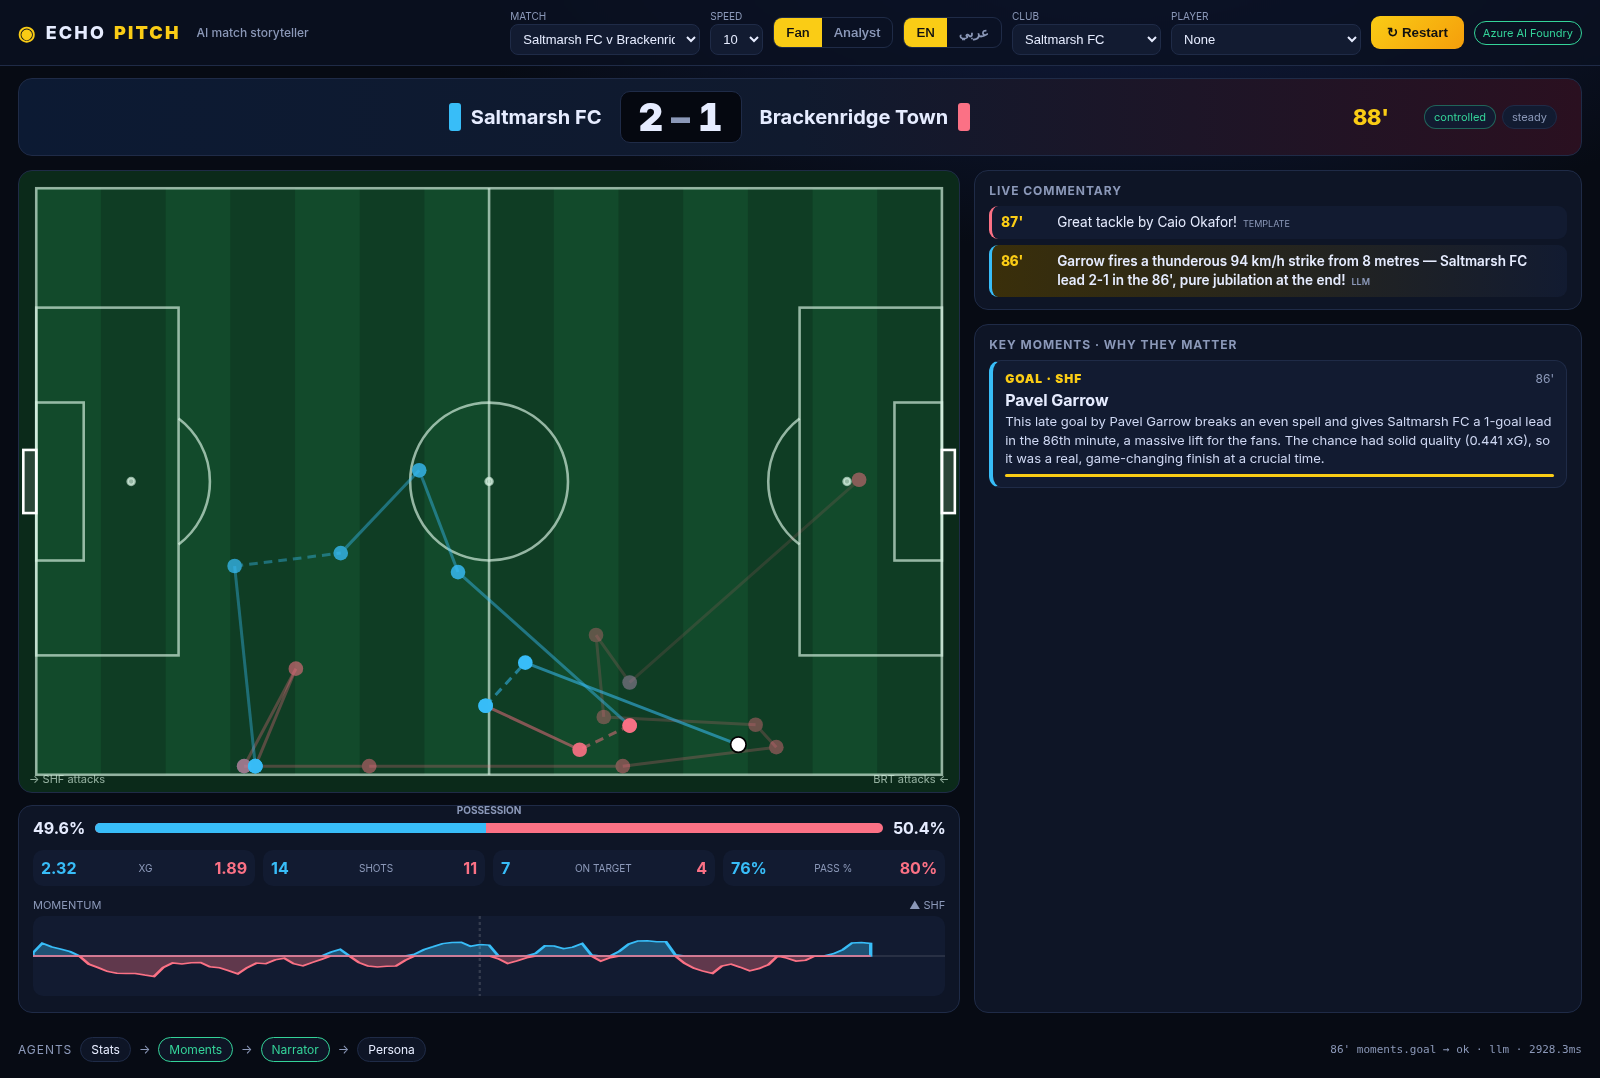
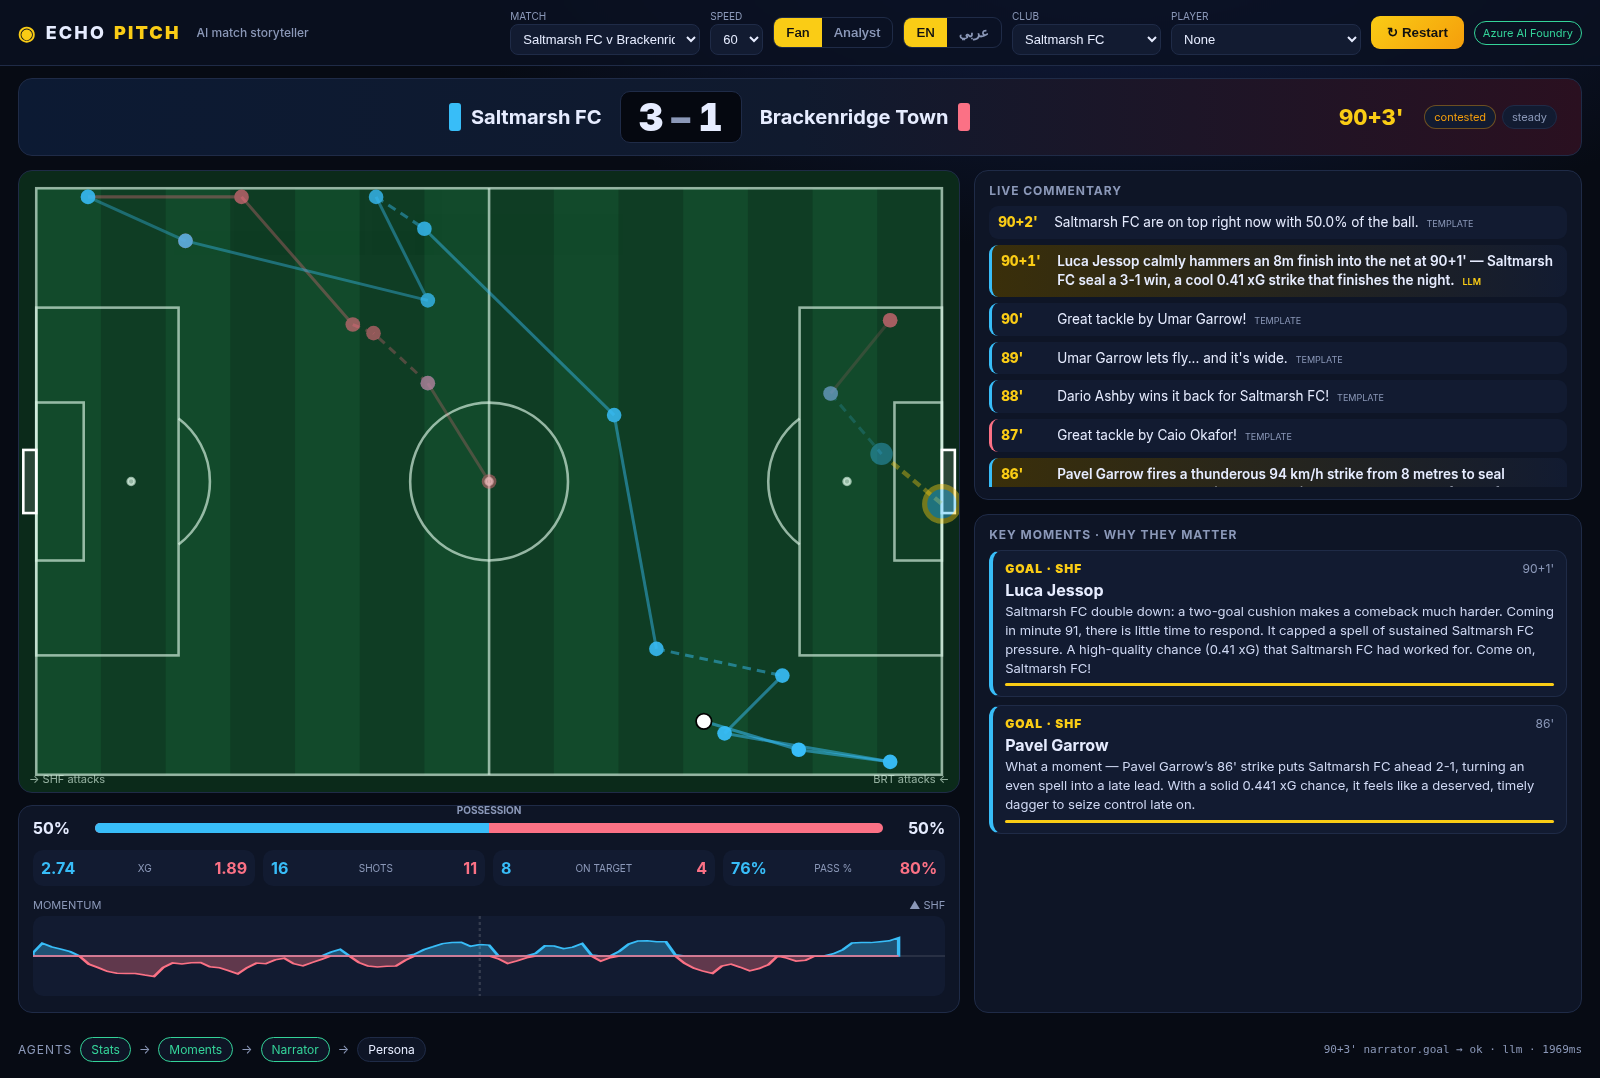
README: replay GIF, category framing, judging map, doc/code audit fixes; refresh Foundry screenshots; draft video script

diff --git a/docs/video_script.md b/docs/video_script.md
@@ -1,31 +1,19 @@
-# Echo Pitch: demo video script (target 1:50, hard limit < 2:00)
+# Demo video script (target 1:50, hard limit < 2:00)
 
-**Format:** 1920×1080 screen recording with English voice-over. Add burned-in captions; judges may watch muted.
-No copyrighted music (use silence or a royalty-free track) and no real club or league logos.
+> **Draft for Ismael to rewrite in his own words.** Judges spot generic AI-written scripts; keep the structure,
+> change the sentences. Record the real app running (no slides). Clear audio matters more than fancy editing.
+> Upload to YouTube as **Public** at least a day before the deadline.
 
-**Setup before recording**
-- `LLM_MODE=foundry` with a working Foundry deployment, or `offline` with the badge visible. Be honest on screen about which mode is showing.
-- Browser at 1600×1000, zoom 100%, extra tabs closed.
-- Pre-open these deep links:
-  - A: `/?match=EP-2026-002&speed=30&start=44&club=home&autoplay=1`
-  - B: `/?match=EP-2026-002&speed=60&start=84&club=home&player=<Saltmarsh #9 id>&autoplay=1`
-  - C: the same as B with `&lang=ar&persona=analyst`
-- For the recovery shot, restart the server with `ECHO_FAULT_AGENTS=narrator`.
-
-| Time | Shot (screen) | Voice-over |
+| Time | On screen | Voice-over (draft) |
 |---|---|---|
-| 0:00–0:10 | Title card: "Echo Pitch: every match, explained, for every fan", then a fast cut to the live UI | "Football stories don't end with the scoreline. Echo Pitch turns raw match events into stories every fan can follow." |
-| 0:10–0:25 | Link A: events flowing on the pitch map, the scoreboard ticking, commentary appearing | "We stream synthetic match events. Passes, shots, tackles and pressure come in live, and four AI agents on Microsoft Foundry read them as they happen." |
-| 0:25–0:42 | Zoom on the momentum chart and the controlled/chaotic chip. A pressing-surge card appears. | "The Stats agent computes possession, xG, pass difficulty and momentum, all deterministic and never invented. The Moments agent explains *why* a spell matters: here, a pressing surge that turned the game chaotic." |
-| 0:42–1:00 | Link B: the late goal, with the goal banner overlay and a GOAL card whose "why" text is highlighted | "When a goal goes in, we don't just say 'goal'. Late winner, against the run of play, from a 0.44 xG chance, so a comeback is now unlikely. Every overlay is a timed JSON card a broadcast graphics engine can render." |
-| 1:00–1:15 | Toggle Fan → Analyst, then EN → عربي. The layout flips right-to-left and the same moment is re-told. | "The Persona agent personalises everything. The same moment becomes a precise analyst note or a fan's celebration, in English or Arabic, around your club and your player." |
-| 1:15–1:30 | Pick a favourite player: ★ tags follow him on the pitch, and a speed alert pops up | "Pick a player and the broadcast follows him: name tags on every touch and speed alerts when he breaks clear." |
-| 1:30–1:42 | Agent strip: narrator shows **recovered** in amber; the trace line reads "narrator → recovered (2 attempts)". A quick cut to the architecture diagram in the README. | "It's built with Microsoft Agent Framework: Stats, Moments, Narrator and Persona share one match state, hand off to each other, retry failures and fall back to safe templates, so the broadcast never stalls." |
-| 1:42–1:50 | Full-time recap modal, then an end card: GitHub URL, "Microsoft Foundry · Agent Framework · Azure Container Apps" (add GitHub Copilot only if it was actually used) | "At full time, an automatic recap and player of the match. Echo Pitch: every match, made for every fan." |
+| 0:00–0:10 | Close-up of a plain stat graphic, then cut to Echo Pitch | "Broadcasts tell you *what* happened: 0.41 xG, 52% possession. Almost nobody tells you *why it matters*, or tells it your way." |
+| 0:10–0:20 | Pick EP-2026-002, press Kick off | "Echo Pitch is a team of AI agents that turns a live stream of synthetic match events into commentary and explanations, personalised for every viewer." |
+| 0:20–0:45 | Ticker filling, pitch drawing attacks, a goal banner | "Events stream in live. The Stats agent reads the numbers through function tools, the Narrator writes the line, and the Moments agent explains why this goal changes the game." |
+| 0:45–1:00 | Point at a line switching TEMPLATE → LLM, then the agent bar and trace | "Every line appears instantly from a template, then upgrades to Foundry output a few seconds later. If an agent fails, the orchestrator retries and falls back, so the broadcast never stalls." |
+| 1:00–1:20 | Switch to Arabic, then Analyst, favourite club + player | "One click and the same match is told in Arabic, for an analyst instead of a casual fan, around my club and my favourite player." |
+| 1:20–1:35 | Quick architecture view (README mermaid) + eval table | "It runs on Microsoft Foundry with gpt-5-mini and Microsoft Agent Framework, at about one cent per match per viewer, with tests and CI on GitHub." |
+| 1:35–1:50 | Full-time recap modal, end card with repo URL | "At full time, an automatic recap. Echo Pitch: every match, explained, for every fan." |
 
-**Edit checklist**
-- Total runtime 1:45–1:55.
-- Captions on.
-- The mode badge is legible in at least one shot.
-- The GitHub URL is readable for at least 3 s.
-- Upload as Public or Unlisted to YouTube and paste the link in the submission.
+Checklist before recording: offline-free (`LLM_MODE=foundry`), browser zoom 100%, notifications off,
+speed 60×, start at minute 78 of EP-2026-002 so a goal lands in the first 30 seconds.
+Only mention GitHub Copilot if it was actually used in the repo.

diff --git a/README.md b/README.md
@@ -6,8 +6,24 @@
 > and your player.
 
 Built for the **Microsoft × Premier League "Inside the Game" Developer Hackathon**. It uses Microsoft Foundry
-and Microsoft Agent Framework, and is ready to deploy to Azure Container Apps.
+and Microsoft Agent Framework, and ships a ready-to-run Azure Container Apps deployment script.
 All clubs, players and data are **fictional and synthetic**.
+
+![Echo Pitch replay](docs/replay.gif)
+
+## Hackathon category
+
+**Primary: Multi-Agent.** Four specialist agents (Stats with function tools, Moments, Narrator, Persona) are
+coordinated by an orchestrator that shares match state, retries failed calls and falls back to deterministic
+templates, so the broadcast never stalls. **Also relevant: Foundry.** Every agent runs on a `gpt-5-mini`
+deployment in a Microsoft Foundry project, measured at about $0.01 per match per viewer (see below).
+
+| Judging criterion | Where to look |
+|---|---|
+| Technological implementation | synthetic generator (`generator/`), tests + CI, Foundry eval (`docs/foundry_eval.json`) |
+| Agentic design & innovation | [Architecture](#architecture), retry/fallback trace bar in the UI |
+| Real-world impact | per-viewer personalisation (Fan/Analyst, club, player) in English and Arabic |
+| UX & presentation | the replay UI below, demo video |
 
 ![Echo Pitch UI](docs/ui.png)
 
@@ -90,9 +106,9 @@ with `DefaultAzureCredential` (a managed identity on Azure, so there are no keys
 
 | Technology | How |
 |---|---|
-| **Microsoft Foundry** | Model deployment (e.g. `gpt-4o-mini`) behind all four agents, via the Foundry project endpoint |
+| **Microsoft Foundry** | `gpt-5-mini` deployment behind all four agents (Narrator also writes the recap), via the Foundry project endpoint |
 | **Microsoft Agent Framework** | `Agent`, `FoundryChatClient`, Python function tools; multi-agent orchestration with handoffs |
-| **Azure Container Apps** | Hosting (`Dockerfile`, `infra/deploy_aca.sh`), managed identity for keyless Foundry access, external ingress for SSE |
+| **Azure Container Apps** | Deployment-ready, not yet deployed (`Dockerfile`, `infra/deploy_aca.sh`), managed identity for keyless Foundry access, external ingress for SSE |
 | **Azure Container Registry** | Cloud image build (`az acr build`) |
 | **GitHub Copilot** *(planned)* | Planned for upcoming development work; this row will be updated once it is used |
 | **GitHub Actions** | CI: tests, determinism check, Docker build and smoke test (`.github/workflows/ci.yml`) |
@@ -129,7 +145,7 @@ LLM_MODE=offline uvicorn app.main:app --port 8000    # Windows PowerShell: $env:
 az login
 export LLM_MODE=foundry
 export FOUNDRY_PROJECT_ENDPOINT=https://<account>.services.ai.azure.com/api/projects/<project>
-export FOUNDRY_MODEL=gpt-4o-mini
+export FOUNDRY_MODEL=gpt-5-mini
 uvicorn app.main:app --port 8000
 ```
 
